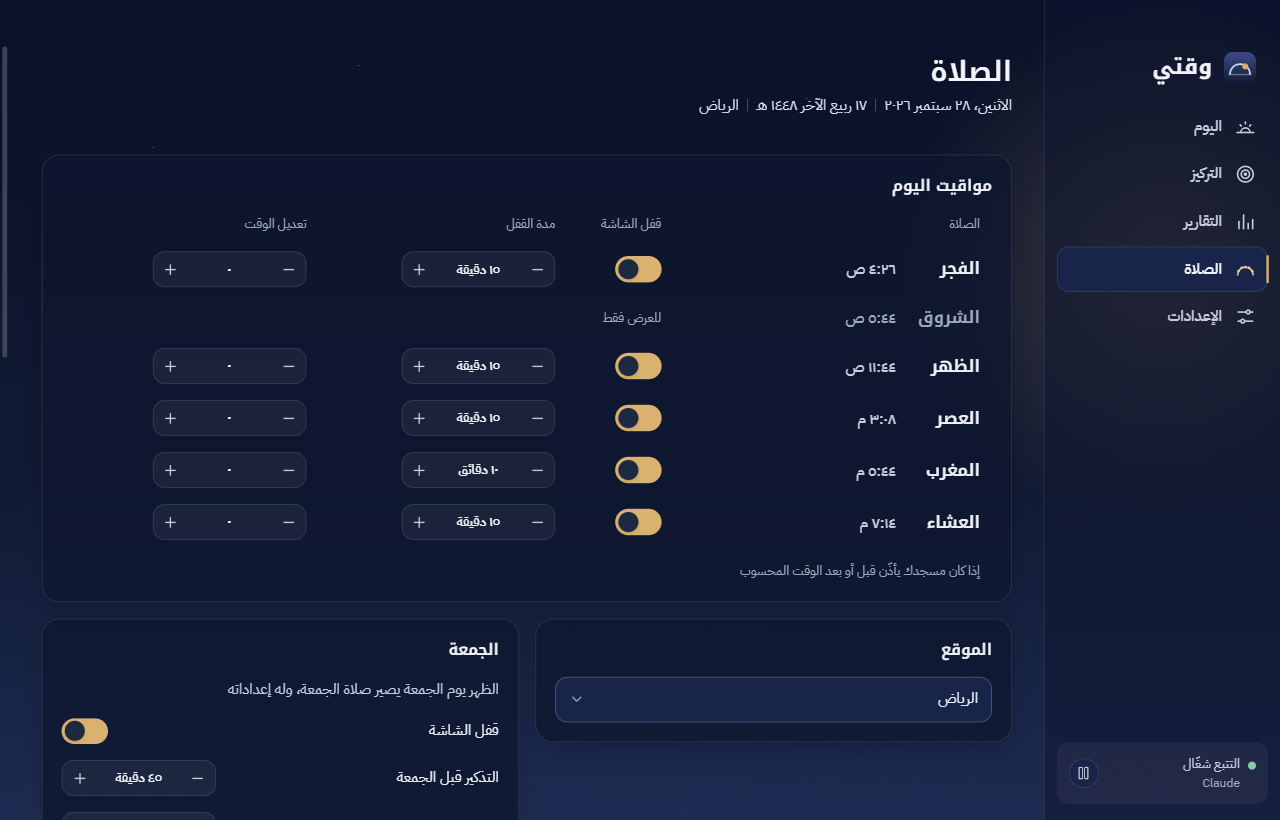
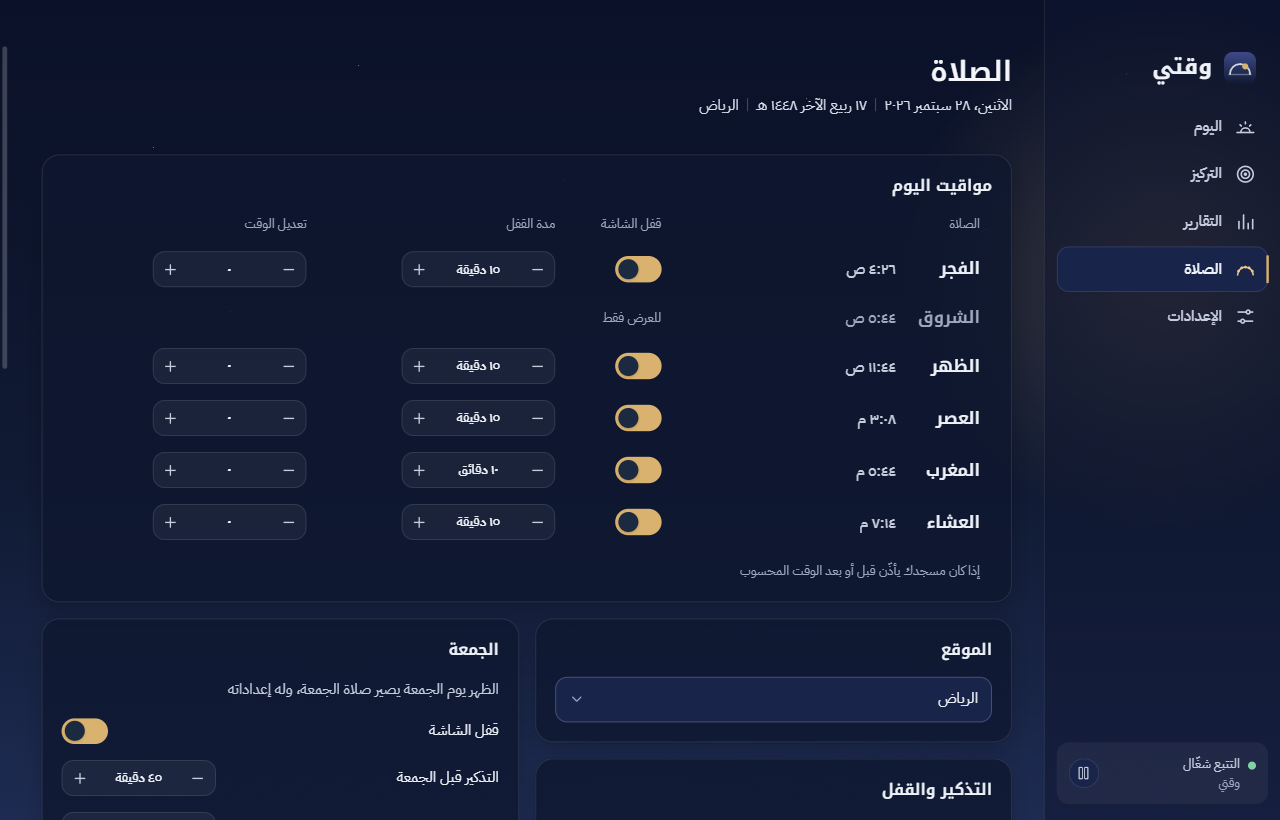
fix(ui): gap-free prayer settings columns and more room under the sky arc
Prayer page settings cards now stack in two independent columns instead
of two rows, so a short card no longer leaves a hole beside a tall one;
the last card of each column stretches so both columns end together.
Today page gets more space between the Sky Arc and the cards.

Changed region(s): [[0.4062, 0.9146, 0.8125, 1.0], [0.9375, 0.9451, 0.9688, 0.9756]]

diff --git a/src/renderer/src/pages/Prayer.tsx b/src/renderer/src/pages/Prayer.tsx
@@ -164,99 +164,102 @@ export function PrayerPage(): React.JSX.Element {
         )}
       </Panel>
 
-      <div className={s.grid}>
-        <Panel title={t.location} id="prayer-location">
-          <LocationPicker
-            value={settings.location}
-            onChange={(loc) => void updateSettings({ location: loc })}
-          />
-        </Panel>
+      {/* Two independent columns so short cards don't leave holes beside tall ones. */}
+      <div className={s.columns}>
+        <div className={s.column}>
+          <Panel title={t.location} id="prayer-location">
+            <LocationPicker
+              value={settings.location}
+              onChange={(loc) => void updateSettings({ location: loc })}
+            />
+          </Panel>
 
-        <Panel title={t.friday} id="prayer-friday">
-          <p className={s.lead}>{t.fridayLead}</p>
-          <Toggle
-            label={t.lock}
-            checked={settings.friday.lock}
-            onChange={(v) => void updateSettings({ friday: { lock: v } })}
-          />
-          <SettingRow label={t.fridayReminder}>
-            <Stepper
-              label={t.fridayReminder}
-              value={settings.friday.reminderMinutes}
-              min={0}
-              max={120}
-              step={5}
-              format={(v) => (v === 0 ? t.reminderOff : fmt.minutes(v))}
-              onChange={(v) => void updateSettings({ friday: { reminderMinutes: v } })}
+          <Panel title={t.reminders} id="prayer-reminders">
+            <SettingRow label={t.reminderBefore}>
+              <Stepper
+                label={t.reminderBefore}
+                value={settings.reminderMinutes}
+                min={0}
+                max={60}
+                step={5}
+                format={(v) => (v === 0 ? t.reminderOff : fmt.minutes(v))}
+                onChange={(v) => void updateSettings({ reminderMinutes: v })}
+              />
+            </SettingRow>
+            <Toggle
+              label={t.chime}
+              hint={t.chimeHint}
+              checked={settings.chime}
+              onChange={(v) => void updateSettings({ chime: v })}
             />
-          </SettingRow>
-          <SettingRow label={t.fridayLock}>
-            <Stepper
-              label={t.fridayLock}
-              value={settings.friday.lockMinutes}
-              min={5}
-              max={60}
-              step={5}
-              format={(v) => fmt.minutes(v)}
-              onChange={(v) => void updateSettings({ friday: { lockMinutes: v } })}
-            />
-          </SettingRow>
-        </Panel>
-      </div>
-
-      <div className={s.grid}>
-        <Panel title={t.reminders} id="prayer-reminders">
-          <SettingRow label={t.reminderBefore}>
-            <Stepper
-              label={t.reminderBefore}
-              value={settings.reminderMinutes}
-              min={0}
-              max={60}
-              step={5}
-              format={(v) => (v === 0 ? t.reminderOff : fmt.minutes(v))}
-              onChange={(v) => void updateSettings({ reminderMinutes: v })}
-            />
-          </SettingRow>
-          <Toggle
-            label={t.chime}
-            hint={t.chimeHint}
-            checked={settings.chime}
-            onChange={(v) => void updateSettings({ chime: v })}
-          />
-          <div className={s.sliderRow}>
-            <div className={s.sliderLabel}>
-              <span>{t.minUnlock}</span>
-              <span className={`${s.sliderValue} num`}>
-                {settings.minUnlockMinutes === 0
-                  ? t.immediately
-                  : fmt.minutes(settings.minUnlockMinutes)}
-              </span>
+            <div className={s.sliderRow}>
+              <div className={s.sliderLabel}>
+                <span>{t.minUnlock}</span>
+                <span className={`${s.sliderValue} num`}>
+                  {settings.minUnlockMinutes === 0
+                    ? t.immediately
+                    : fmt.minutes(settings.minUnlockMinutes)}
+                </span>
+              </div>
+              <Slider
+                label={t.minUnlock}
+                value={settings.minUnlockMinutes}
+                min={0}
+                max={15}
+                valueText={(v) => (v === 0 ? t.immediately : fmt.minutes(v))}
+                onChange={(v) => void updateSettings({ minUnlockMinutes: v })}
+              />
             </div>
-            <Slider
-              label={t.minUnlock}
-              value={settings.minUnlockMinutes}
-              min={0}
-              max={15}
-              valueText={(v) => (v === 0 ? t.immediately : fmt.minutes(v))}
-              onChange={(v) => void updateSettings({ minUnlockMinutes: v })}
-            />
-          </div>
-        </Panel>
+          </Panel>
+        </div>
 
-        <Panel title={t.smart} id="prayer-smart">
-          <Toggle
-            label={t.skipAway}
-            hint={t.skipAwayHint}
-            checked={settings.smart.skipWhenAway}
-            onChange={(v) => void updateSettings({ smart: { skipWhenAway: v } })}
-          />
-          <Toggle
-            label={t.deferMeetings}
-            hint={t.deferMeetingsHint}
-            checked={settings.smart.deferInMeetings}
-            onChange={(v) => void updateSettings({ smart: { deferInMeetings: v } })}
-          />
-        </Panel>
+        <div className={s.column}>
+          <Panel title={t.friday} id="prayer-friday">
+            <p className={s.lead}>{t.fridayLead}</p>
+            <Toggle
+              label={t.lock}
+              checked={settings.friday.lock}
+              onChange={(v) => void updateSettings({ friday: { lock: v } })}
+            />
+            <SettingRow label={t.fridayReminder}>
+              <Stepper
+                label={t.fridayReminder}
+                value={settings.friday.reminderMinutes}
+                min={0}
+                max={120}
+                step={5}
+                format={(v) => (v === 0 ? t.reminderOff : fmt.minutes(v))}
+                onChange={(v) => void updateSettings({ friday: { reminderMinutes: v } })}
+              />
+            </SettingRow>
+            <SettingRow label={t.fridayLock}>
+              <Stepper
+                label={t.fridayLock}
+                value={settings.friday.lockMinutes}
+                min={5}
+                max={60}
+                step={5}
+                format={(v) => fmt.minutes(v)}
+                onChange={(v) => void updateSettings({ friday: { lockMinutes: v } })}
+              />
+            </SettingRow>
+          </Panel>
+
+          <Panel title={t.smart} id="prayer-smart">
+            <Toggle
+              label={t.skipAway}
+              hint={t.skipAwayHint}
+              checked={settings.smart.skipWhenAway}
+              onChange={(v) => void updateSettings({ smart: { skipWhenAway: v } })}
+            />
+            <Toggle
+              label={t.deferMeetings}
+              hint={t.deferMeetingsHint}
+              checked={settings.smart.deferInMeetings}
+              onChange={(v) => void updateSettings({ smart: { deferInMeetings: v } })}
+            />
+          </Panel>
+        </div>
       </div>
 
       <Panel title={t.history} id="prayer-history">

diff --git a/src/renderer/src/pages/Prayer.module.css b/src/renderer/src/pages/Prayer.module.css
@@ -6,11 +6,22 @@
   margin-inline: auto;
 }
 
-.grid {
+/* Cards stack inside each column; the last card of each column stretches so
+   both columns end on the same line. */
+.columns {
   display: grid;
   grid-template-columns: repeat(2, minmax(0, 1fr));
   gap: var(--sp-4);
-  align-items: start;
+}
+
+.column {
+  display: flex;
+  flex-direction: column;
+  gap: var(--sp-4);
+}
+
+.column > :last-child {
+  flex-grow: 1;
 }
 
 .table {

diff --git a/src/renderer/src/pages/Today.module.css b/src/renderer/src/pages/Today.module.css
@@ -25,10 +25,11 @@
   color: var(--text-on-sky-2);
 }
 
-/* Hero sits directly on the sky: no card. */
+/* Hero sits directly on the sky: no card. The extra space below lets the
+   night arc breathe before the cards start. */
 .hero {
   position: relative;
-  margin-block: calc(var(--sp-3) * -1) 0;
+  margin-block: calc(var(--sp-3) * -1) var(--sp-6);
 }
 
 .grid {
